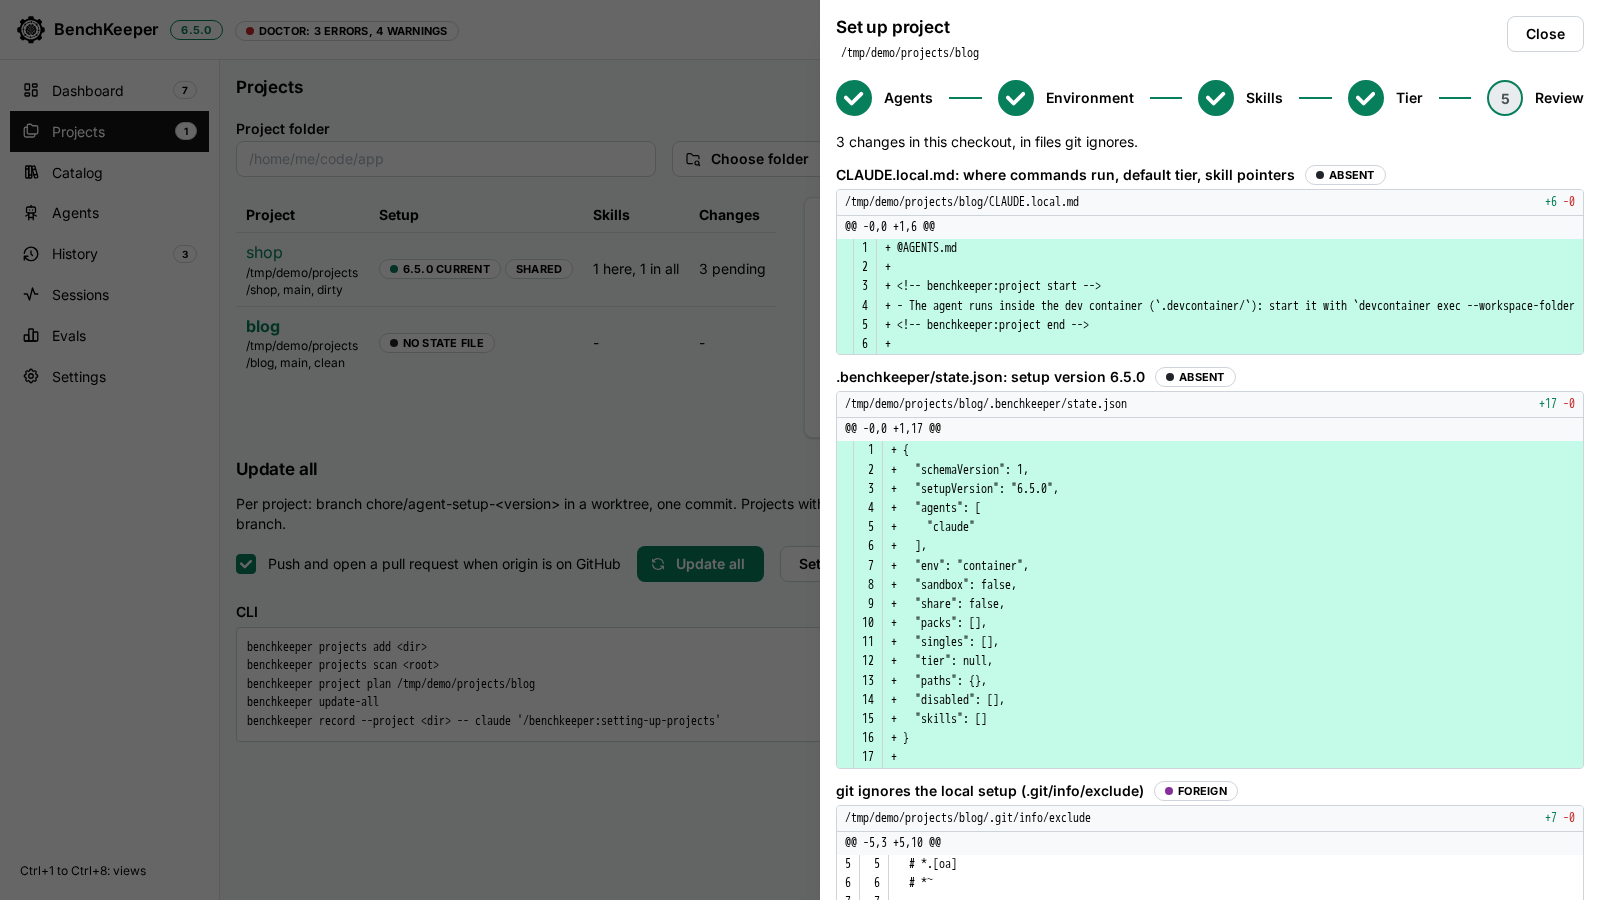
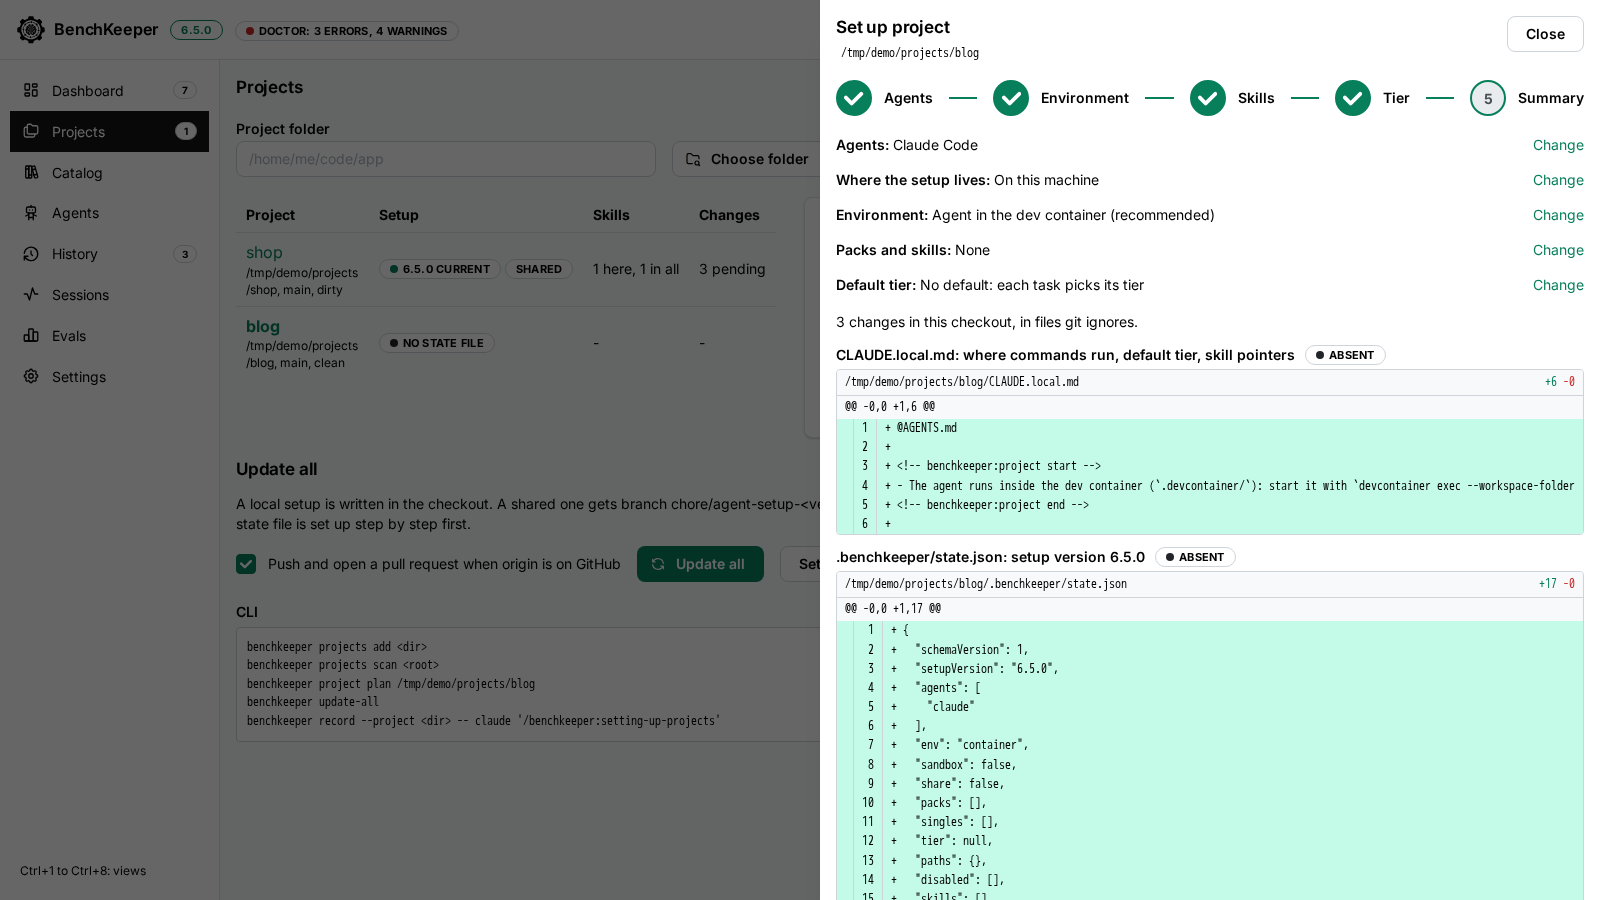
feat(app): one summary step in the project setup, each answer with a way back (#180)
The Review step now opens with every answer next to its step, each with
a Change link, above the plan of changes. The step order stays: the
environment does not change which skills fit, the agents do.

Refs #180
Assisted-by: generative AI

diff --git a/app/ui/setup.jsx b/app/ui/setup.jsx
@@ -82,7 +82,23 @@ export function AdviceJob({ job, name, onDone }) {
 // A plan shown for review only, its skill installs rehearsed.
 const Rehearsed = ({ plan }) => <ChangeList plan={plan} prerun={usePrerun(plan)} />;
 
-// One project's setup, step by step: agents, where commands run, packs and skills, tier, review. Local (the default):
+// Every answer next to its step, each with a way back to change it.
+function Answers({ rows, onChange }) {
+  return (
+    <List listStyleType="none" spacing="xs" aria-label="Your answers">
+      {rows.map(({ label, value, step }) => (
+        <List.Item key={label} styles={{ itemWrapper: { width: '100%' }, itemLabel: { width: '100%' } }}>
+          <Group gap="xs" wrap="nowrap" align="baseline" justify="space-between">
+            <Text size="sm"><Text span fw={600}>{label}:</Text> {value}</Text>
+            <Anchor component="button" type="button" size="sm" aria-label={`Change ${label}`} onClick={() => onChange(step)}>Change</Anchor>
+          </Group>
+        </List.Item>
+      ))}
+    </List>
+  );
+}
+
+// One project's setup, step by step: agents, where commands run, packs and skills, tier, summary. Local (the default):
 // written in the checkout, in files git ignores. Shared: a branch with one commit (and a pull request when origin is on
 // GitHub), as Update all makes them.
 function SetupSteps({ dir, push, onFinish, prefill }) {
@@ -194,20 +210,29 @@ function SetupSteps({ dir, push, onFinish, prefill }) {
               <Stack gap="xs" mt="xs">{['', ...s.tiers].map((t) => <Radio key={t || 'none'} value={t} label={TIER_TEXT[t] ?? t} />)}</Stack>
             </Radio.Group>
           </Stepper.Step>
-          <Stepper.Step label="Review">
-            <Loading state={review} label="changes">{(p) => (
-              <Stack gap="sm">
-                {p.warnings.map((w) => <Note key={w} color="yellow">{w}</Note>)}
-                <Text size="sm">{a.share ? <>{p.changes.length} changes on branch <Code>chore/agent-setup</Code>, nothing in your working tree.</> : <>{p.changes.length} changes in this checkout, in files git ignores.</>}</Text>
-                <Rehearsed plan={p} />
-                {!!p.prompts.length && (
-                  <Stack gap={4}>
-                    <Text size="sm" fw={600}>{a.share ? 'After merging, start in the project' : 'Then start in the project'}</Text>
-                    {p.prompts.map((x) => <Text key={x.prompt} size="sm"><Code>{x.prompt}</Code> {x.why}</Text>)}
-                  </Stack>
-                )}
-              </Stack>
-            )}</Loading>
+          <Stepper.Step label="Summary">
+            <Stack gap="md">
+              <Answers onChange={setStep} rows={[
+                { label: 'Agents', step: 0, value: a.agents.map((id) => s.agents.find((x) => x.id === id)?.name ?? id).join(', ') || 'None' },
+                { label: 'Where the setup lives', step: 0, value: a.share ? 'In the repository, as a pull request' : 'On this machine' },
+                { label: 'Environment', step: 1, value: `${ENV_TITLE[a.env] ?? a.env}${a.sandbox ? ', with the Claude Code sandbox' : ''}` },
+                { label: 'Packs and skills', step: 2, value: [...a.packs.map((id) => s.packs.find((p) => p.id === id)?.title ?? id), ...a.skills].join(', ') || 'None' },
+                { label: 'Default tier', step: 3, value: TIER_TEXT[a.tier] ?? a.tier },
+              ]} />
+              <Loading state={review} label="changes">{(p) => (
+                <Stack gap="sm">
+                  {p.warnings.map((w) => <Note key={w} color="yellow">{w}</Note>)}
+                  <Text size="sm">{a.share ? <>{p.changes.length} changes on branch <Code>chore/agent-setup</Code>, nothing in your working tree.</> : <>{p.changes.length} changes in this checkout, in files git ignores.</>}</Text>
+                  <Rehearsed plan={p} />
+                  {!!p.prompts.length && (
+                    <Stack gap={4}>
+                      <Text size="sm" fw={600}>{a.share ? 'After merging, start in the project' : 'Then start in the project'}</Text>
+                      {p.prompts.map((x) => <Text key={x.prompt} size="sm"><Code>{x.prompt}</Code> {x.why}</Text>)}
+                    </Stack>
+                  )}
+                </Stack>
+              )}</Loading>
+            </Stack>
           </Stepper.Step>
           <Stepper.Completed>
             {result && (
